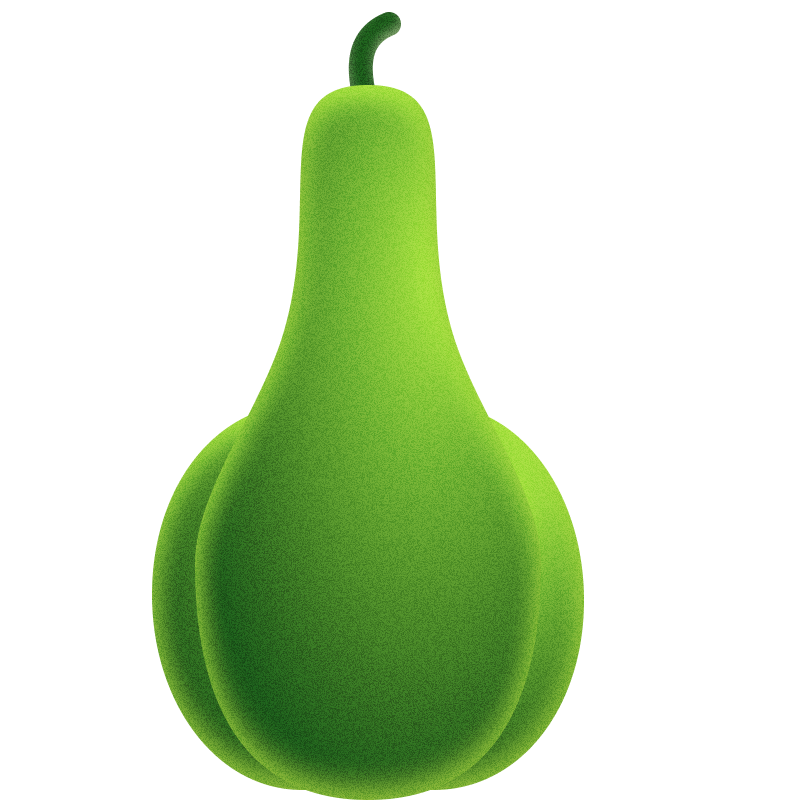
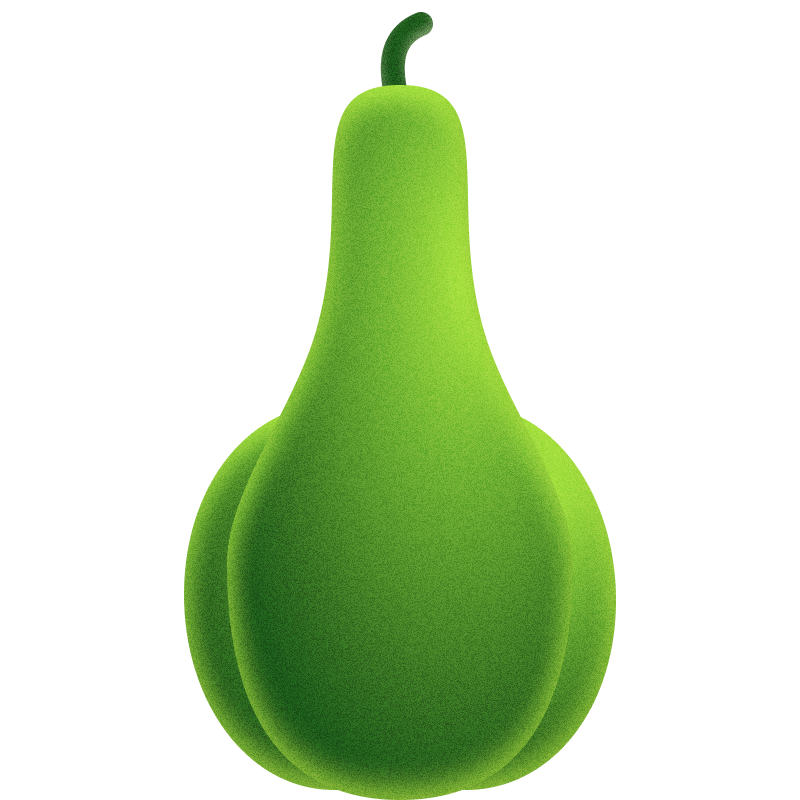
updated pictures and view size

Changed region(s): [[0.1875, 0.0, 0.7812, 1.0], [0.5938, 0.6875, 0.625, 0.7188]]

diff --git a/src/App.css b/src/App.css
@@ -17,7 +17,7 @@
 
 main {
   padding-top: 20px;
-  background-image: url('../public/Images/Desktop.png');
+  /* background-image: url('../public/Images/Desktop.png'); */
   background-repeat: no-repeat;
   background-attachment: fixed;
   background-position: center;
@@ -26,24 +26,19 @@ main {
   color: white;
 }
 
-footer {
-  min-height: 100px;
-  background-color: #1b083d;
-}
-
 .zone-container {
+  margin-top: -50px;
   position: relative;
-  width: 600px;
+  width: 850px;
   margin-left: auto;
   margin-right: auto;
 }
 
 .creation-zone {
   position: absolute;
-  /* background-color: white; */
-  width: 600px;
-  height: 600px;
-  left: 20px;
+  width: 850px;
+  height: 850px;
+  /* border: 1px solid white; */
 }
 
 .options-zone {
@@ -73,8 +68,9 @@ footer {
 }
 
 .features-options-zone {
+
   position: absolute;
-  background-color: rgba(255, 255, 255, 0.100);
+  /* background-color: rgba(255, 255, 255, 0.100); */
   width: 690px;
   height: 150px;
   overflow-x: scroll;
@@ -93,13 +89,13 @@ footer {
 
   /* Handle */
 ::-webkit-scrollbar-thumb {
-  background: #888;
+  background-color: orange;
   border-radius: 5px;
   }
   
   /* Handle on hover */
   ::-webkit-scrollbar-thumb:hover {
-  background: #555;
+  background: rgba(255, 166, 0, 0.500);
   }
 
 .options-container {
@@ -110,38 +106,60 @@ footer {
   margin-right: auto;
   height: 140px;
   margin-top: 700px;
-  margin-bottom: 60px;
+  /* margin-bottom: 60px; */
   display: flex;
   flex-wrap: nowrap;
+  border-radius: 5px;
+}
+
+.scroll-options-container {
+  background-color: rgba(255, 255, 255, 0.100);
+  position: relative;
+  width: 690px;
+  margin-left: auto;
+  margin-right: auto;
+  height: 140px;
+  margin-top: 700px;
+  /* margin-bottom: 60px; */
+  display: flex;
+  flex-wrap: nowrap;
+  border-radius: 5px;
+  padding-left: 15px;
+  padding-right: 15px;
 }
 
 .pumpkin {
   position: absolute;
   z-index: 1;
-  left: 0;
-  bottom: 0;
-  min-height: 600px;
-  max-height: 600px;
+  left: 25px;
+  bottom: 200px;
+  min-height: 800px;
+  max-height: 800px;
 }
 
 .eyes {
   position: absolute;
-  bottom: 150px;
-  left: 175px;
+  bottom: 440px;
+  left: 300px;
   z-index: 2;
+}
+
+.glow {
+  position: absolute;
+  left: 0px;
 }
 
 .nose {
   position: absolute;
-  bottom: 90px;
-  left: 175px;
+  bottom: 370px;
+  left: 300px;
   z-index: 2;
 }
 
 .mouth {
   position: absolute;
-  bottom: 30px;
-  left: 175px;
+  bottom: 290px;
+  left: 300px;
   z-index: 2;
 }
 
@@ -154,6 +172,7 @@ footer {
   margin-right: 5px;
   margin-top: 20px;
   position: relative;
+  border-radius: 5px;
 }
 
 .option-button:hover {

diff --git a/src/Options/Options.jsx b/src/Options/Options.jsx
@@ -176,7 +176,7 @@ function Options() {
         )  
     } else if (isEditing === 3) {
         return (
-            <div className='options-container'>
+            <div className='scroll-options-container'>
             <div className='features-options-zone'>
               <div className='option-button' onClick={() => addEyes("Eyes-1.png")}>
                 <img className='features' src={process.env.PUBLIC_URL + '/Images/Eyes-1.png'} alt="" />
@@ -216,7 +216,7 @@ function Options() {
         )
     }  else if (isEditing === 4) {
         return (
-            <div className='options-container'>
+            <div className='scroll-options-container'>
             <div className='features-options-zone'>
               <div className='option-button' onClick={() => addNose("Nose-1.png")}>
                 <img className='features' src={process.env.PUBLIC_URL + '/Images/Nose-1.png'} alt="" />
@@ -256,7 +256,7 @@ function Options() {
         )
     }   else if (isEditing === 5) {
         return (
-            <div className='options-container'>
+            <div className='scroll-options-container'>
             <div className='features-options-zone'>
               <div className='option-button' onClick={() => addMouth("Mouth-1.png")}>
                 <img className='features' src={process.env.PUBLIC_URL + '/Images/Mouth-1.png'} alt="" />

diff --git a/src/App.jsx b/src/App.jsx
@@ -11,14 +11,14 @@ function App() {
       <main>
         <div className='zone-container'>
           <div id='canvas' className='creation-zone'>
-          
+            <img className='glow' src={process.env.PUBLIC_URL + '/Images/Glow.png'} alt="" />
           </div>
         </div>
        <Options/>
       </main>
-      <footer>
+      {/* <footer>
 
-      </footer>
+      </footer> */}
     </div>
   );
 }
